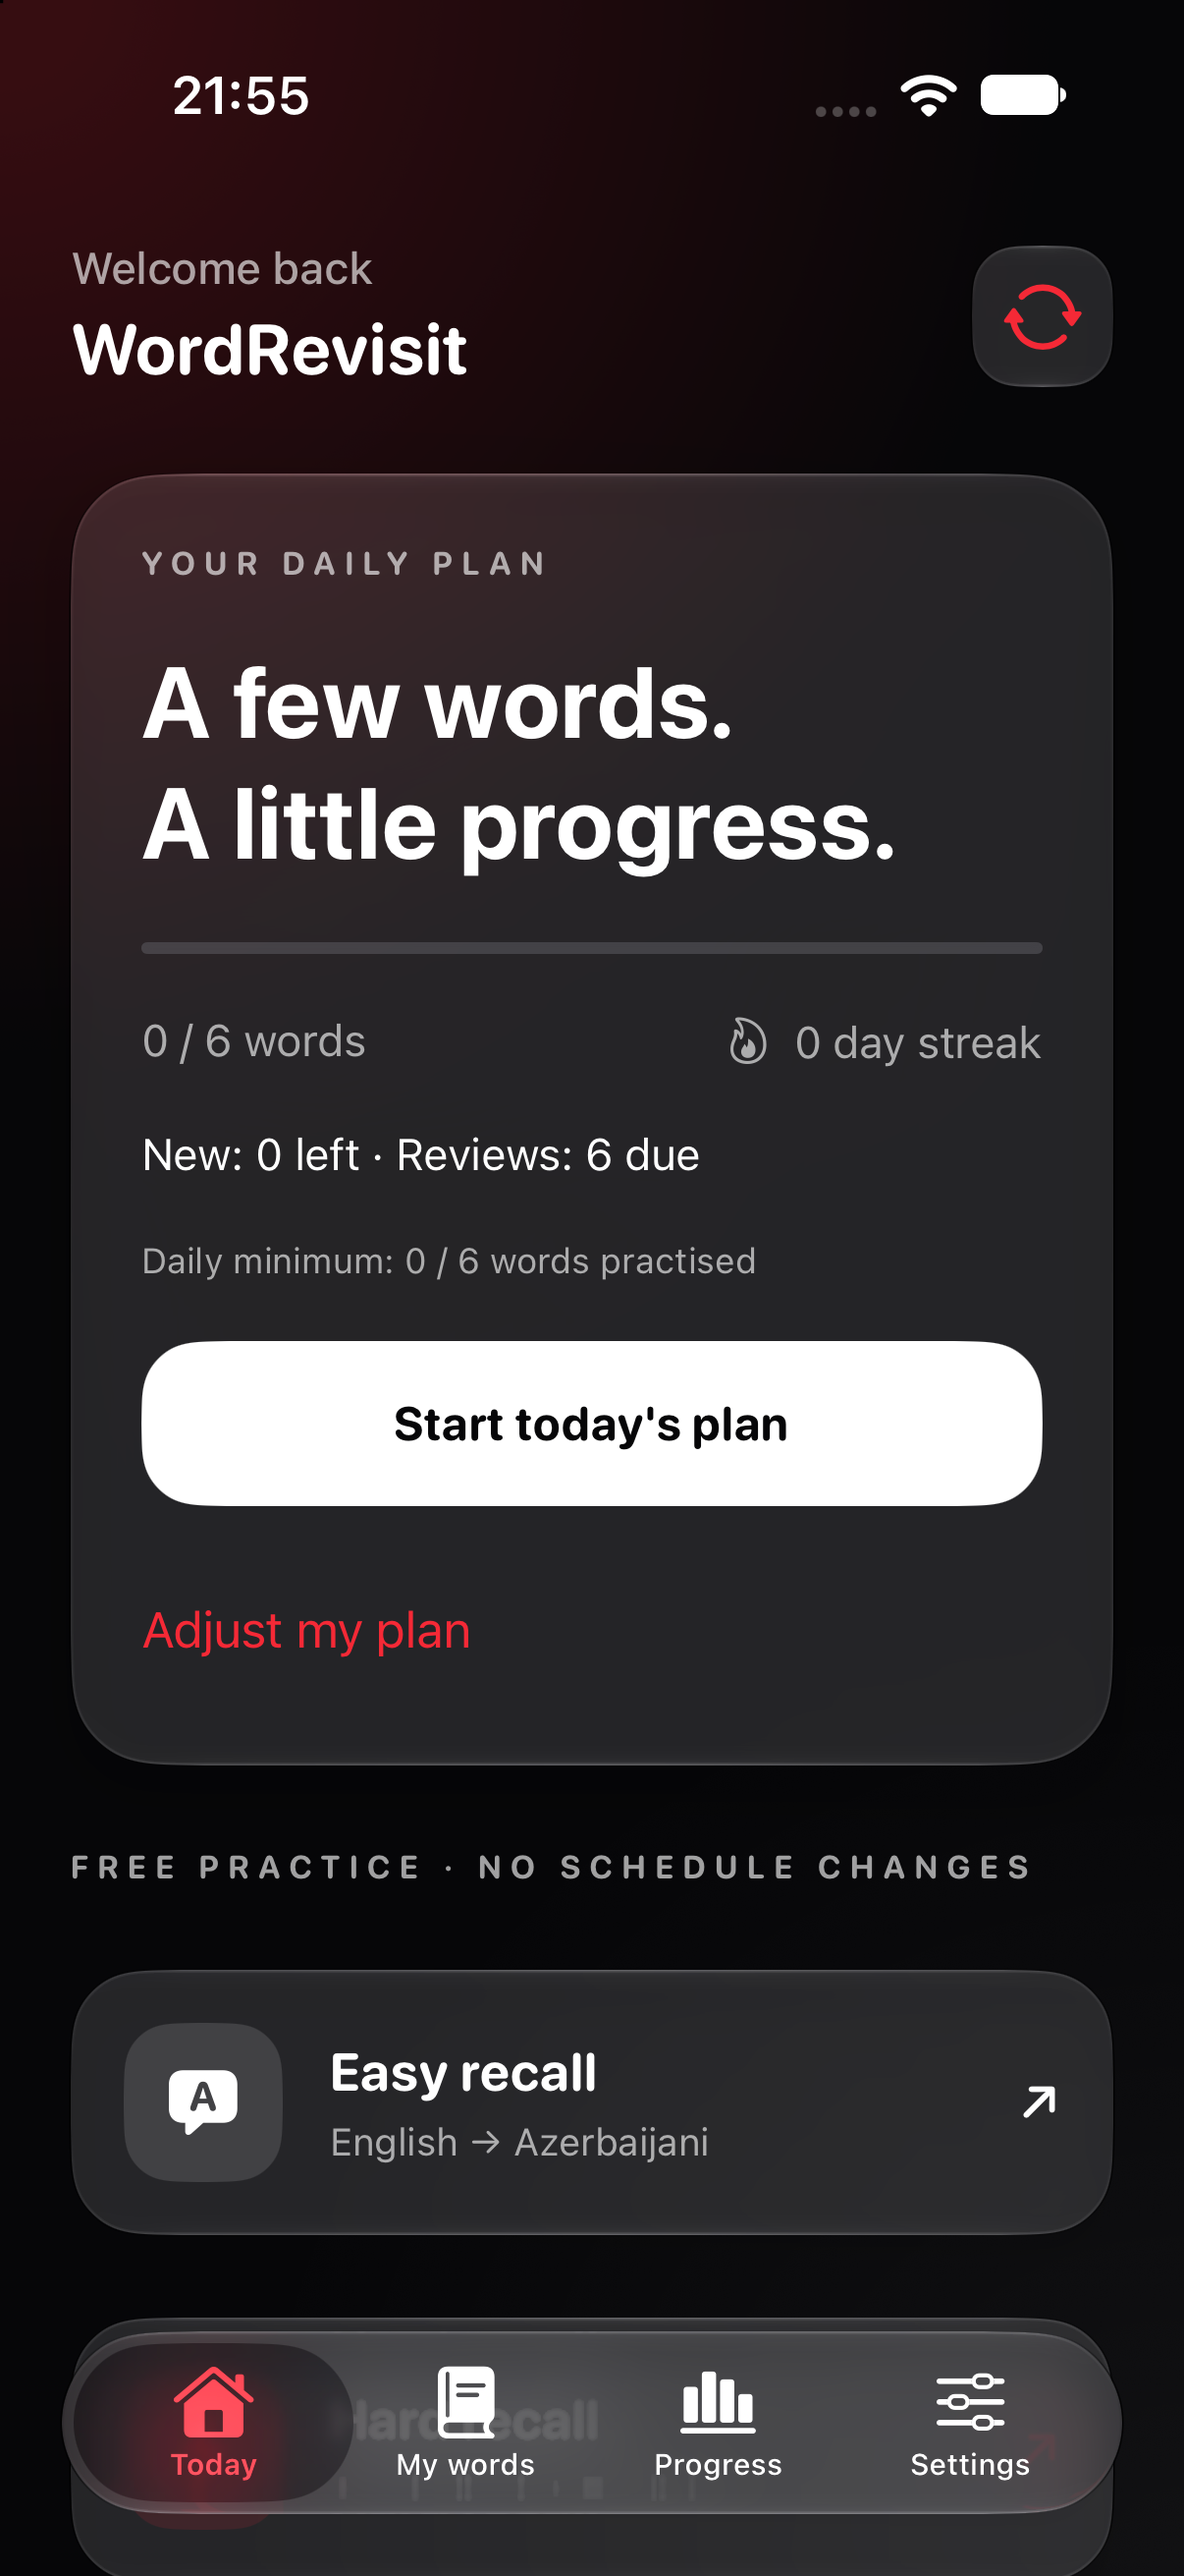
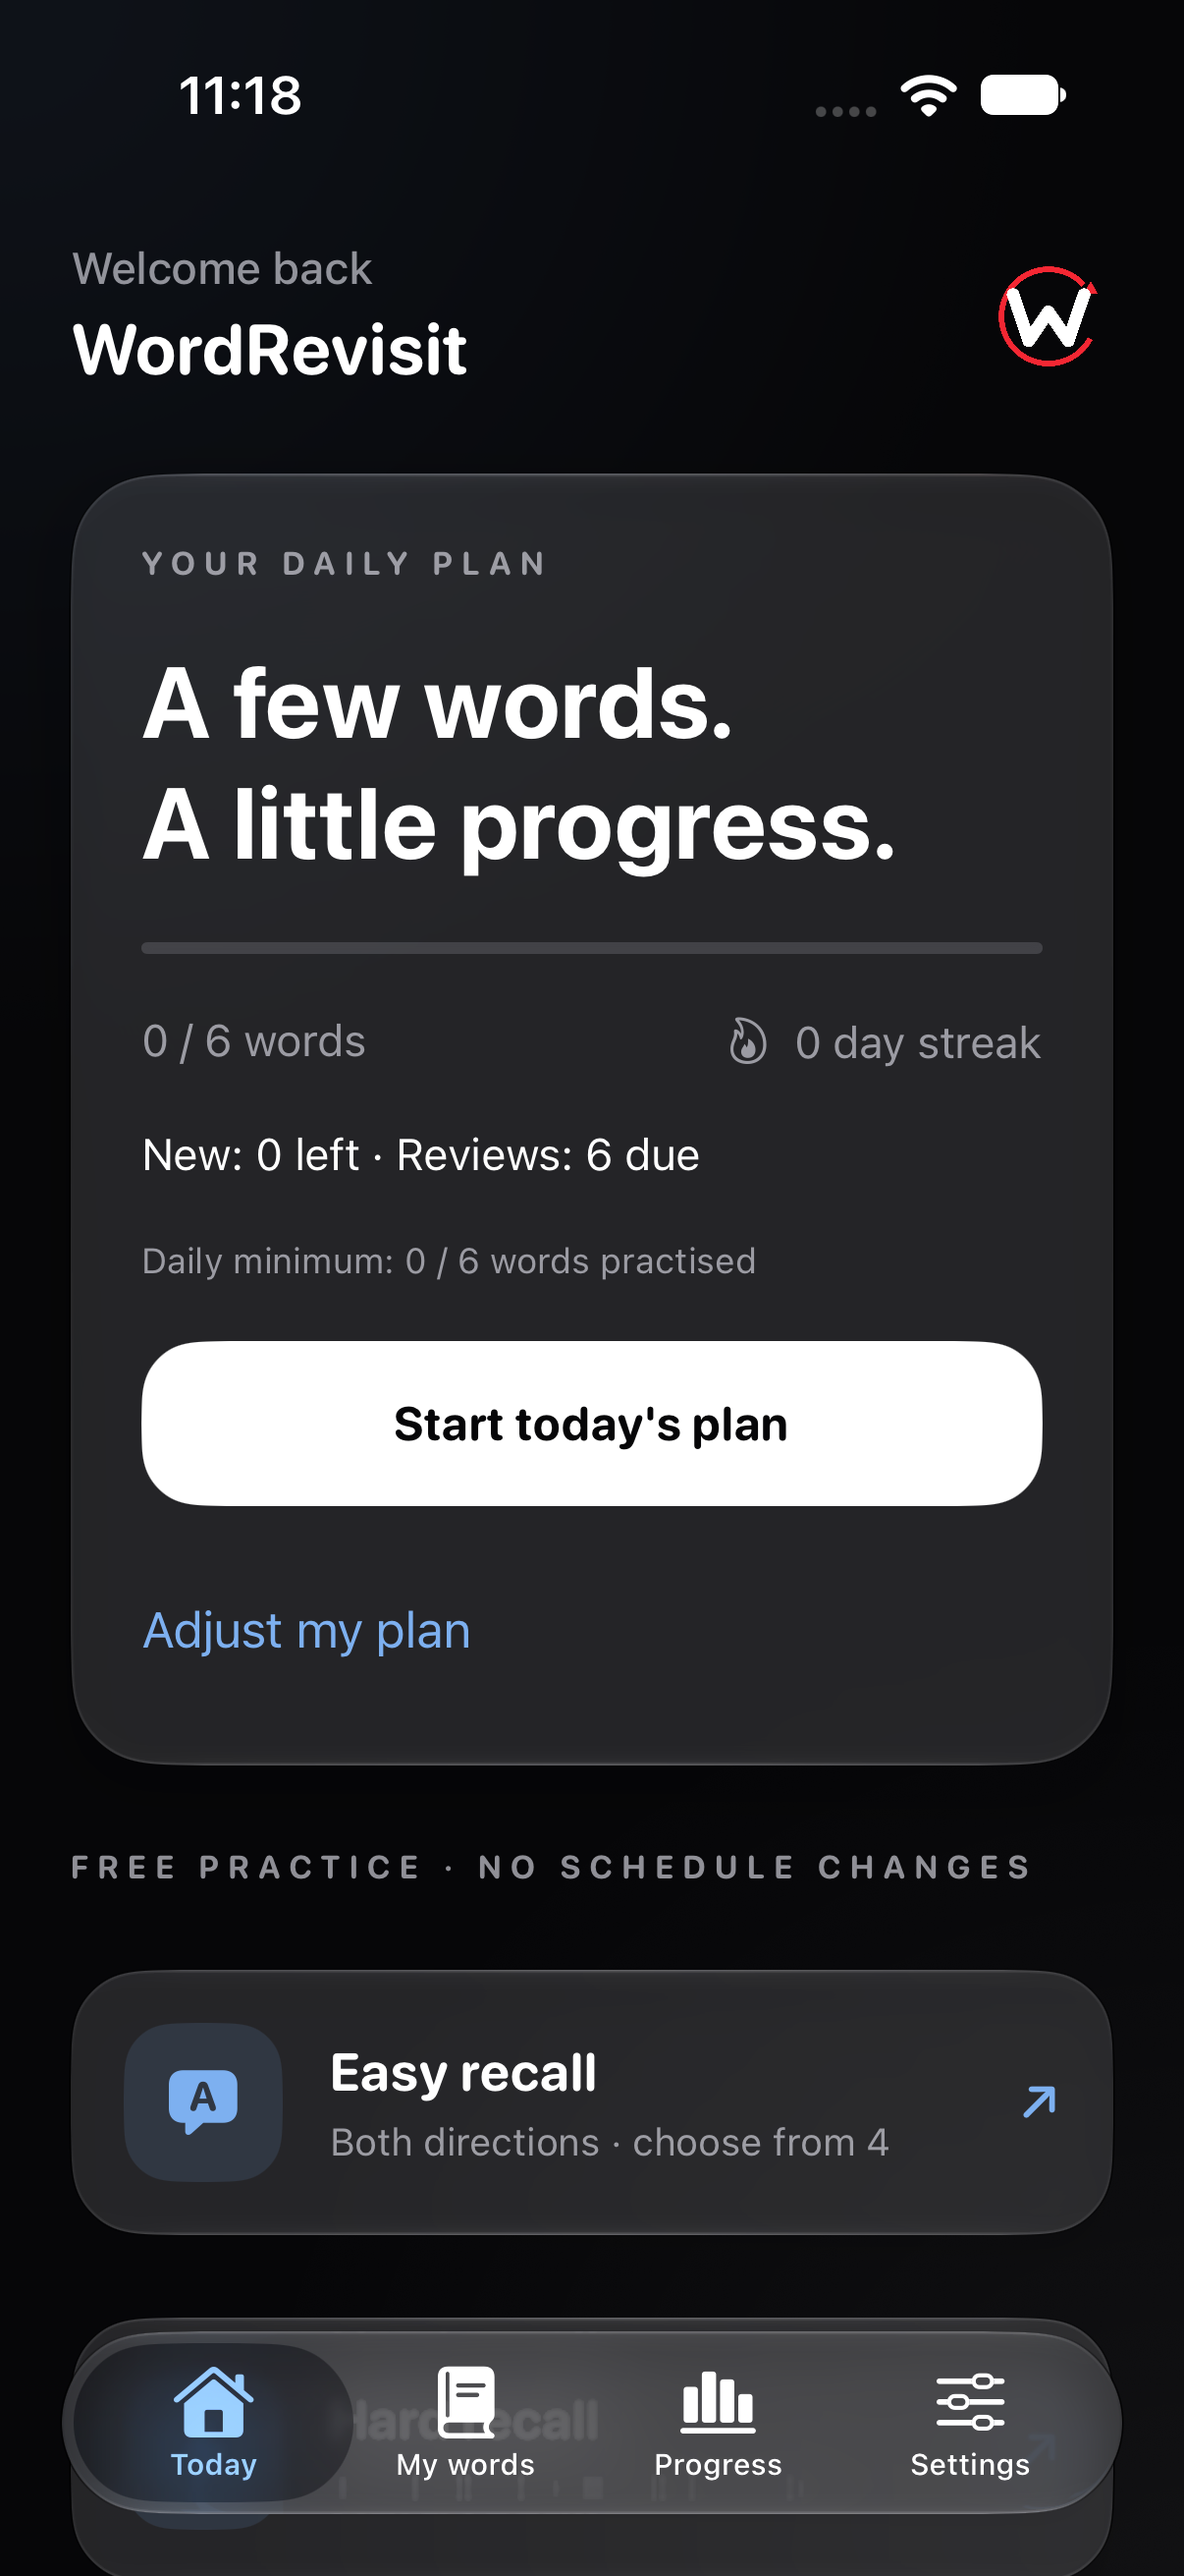
Release WordRevisit 2.1 with updated documentation

diff --git a/WordRevisit/README.md b/WordRevisit/README.md
@@ -1,14 +1,14 @@
 # WordRevisit
 
-A native, offline iPhone app for learning English with Azerbaijani translations. **Version 2.0.0**, iOS **18+**, SwiftUI. Vocabulary and learning history stay on your iPhone. The first installation includes a 59-word starter collection.
+A native, offline iPhone app for learning English with Azerbaijani translations. **Version 2.1.0**, iOS **18+**, SwiftUI. Vocabulary and learning history stay on your iPhone. The first installation includes a 59-word starter collection.
 
 ## Screenshots
 
-Screenshots from an iOS 27 simulator using sample data. The black, white, and red interface uses Liquid Glass on iOS 26+ and native materials on iOS 18–25.
+Screenshots from an iOS 27 simulator using sample data. The interface follows your iPhone’s appearance, or you can choose Light or Dark in Settings. It uses Liquid Glass on iOS 26+ and native materials on iOS 18–25.
 
 | Today's plan | Recall and feedback | Progress |
 |:---:|:---:|:---:|
-| ![Daily learning plan](docs/screenshots/today.png) | ![Written recall feedback](docs/screenshots/study.png) | ![Learning statistics](docs/screenshots/progress.png) |
+| ![Daily learning plan](docs/screenshots/today.png) | ![Multiple-choice practice feedback](docs/screenshots/study.png) | ![Learning statistics](docs/screenshots/progress.png) |
 
 ## Start here
 
@@ -54,7 +54,7 @@ Assign matching **Synonym group** names to related words. **Practise synonyms** 
 
 Daily questions show examples through **Show sentence hint**, then show examples, definitions and memory hooks after answering. Your own sentence can be saved and shared from the editor.
 
-**Easy recall** (English → Azerbaijani) and **Hard recall** (Azerbaijani → English) are available as free practice. Their example hints stay visible, results can be reviewed, and missed words can be retried. Free practice does not change daily review stages or dates. Its quiz history is kept separately; resumable sessions apply to the daily plan and synonym practice.
+**Easy recall** offers four answer choices in either direction: English → Azerbaijani or Azerbaijani → English. **Hard recall** asks you to write the English word from its Azerbaijani translation. Easy practice includes words with four distinct, unambiguous options; add more vocabulary if none are available. Example hints stay visible, results can be reviewed, and missed words can be retried. Free practice does not change daily review stages or dates. Its quiz history is kept separately; resumable sessions apply to the daily plan and synonym practice.
 
 ## Manage words and import
 
@@ -87,9 +87,15 @@ Daily reminders default to **09:00 and 20:30**. A 22:00 reminder is scheduled on
 
 Enable **Xcode renewal** in Settings for a reminder to reinstall through Xcode. Backup and renewal reminders remain active after you complete the daily minimum.
 
-## Updating from 1.2
+## Updating
 
-Install the update over your existing app using the same bundle identifier. Your words, examples, quiz history and due dates are preserved. Existing review progress transfers to the new stages, and previous quiz days count toward your streak history.
+Export a JSON backup, then install the update over your existing app using the same bundle identifier. Keep the installed app; deleting it removes its local data.
+
+Version 2.1 reads existing 2.0 data and JSON backups, including words, review dates, history, settings and saved study sessions. It also supports the earlier 1.2 data format. The first upgrade keeps a local recovery copy of the previous data file. Older backups use System appearance by default; new backups include your chosen appearance. Backups created by 2.1 require 2.1 or a later compatible version to restore.
+
+### Appearance
+
+Choose **System**, **Light** or **Dark** in **Settings → Appearance**. The home logo follows the selected theme. Blue marks actions and selections, green marks correct answers, and red marks mistakes and destructive actions. Feedback also uses text and icons.
 
 ## Run on an iPhone without the App Store
 
@@ -129,7 +135,7 @@ swiftc Sources/Models/*.swift Sources/Services/*.swift Sources/Data/WordReposito
 /tmp/WordRevisitLearningChecks
 ```
 
-Choose an iPhone simulator and **Product → Test** (`⌘U`) to run UI checks for word management, saved sessions, quizzes and synonym practice. Tests use an isolated temporary store. The command-line checks cover imports, migration, learning schedules, answer grading, streaks, notifications and backup restoration.
+Choose an iPhone simulator and **Product → Test** (`⌘U`) to run UI checks for word management, saved sessions, quizzes and synonym practice. Tests use an isolated temporary store. The command-line checks cover imports, migration, learning schedules, answer grading, streaks, notifications and backup restoration. A fixture generated by version 2.0 checks that seven study days, a saved session and existing settings survive both an update and a JSON restore.
 
 ## License
 

diff --git a/README.md b/README.md
@@ -17,7 +17,7 @@ Three independent applications in one repository: two ASP.NET Core web apps and 
 
 ### WordRevisit
 
-WordRevisit **2.0.0** includes a daily learning plan, resumable sessions, staged reviews, synonym practice, bulk word management, and full backups. Vocabulary and learning history stay on the iPhone.
+WordRevisit **2.1.0** includes a daily learning plan, resumable sessions, staged reviews, synonym practice, bulk word management, and full backups. Vocabulary and learning history stay on the iPhone.
 
 <p align="center">
   <img src="WordRevisit/docs/screenshots/today.png" alt="WordRevisit daily plan" width="205">
